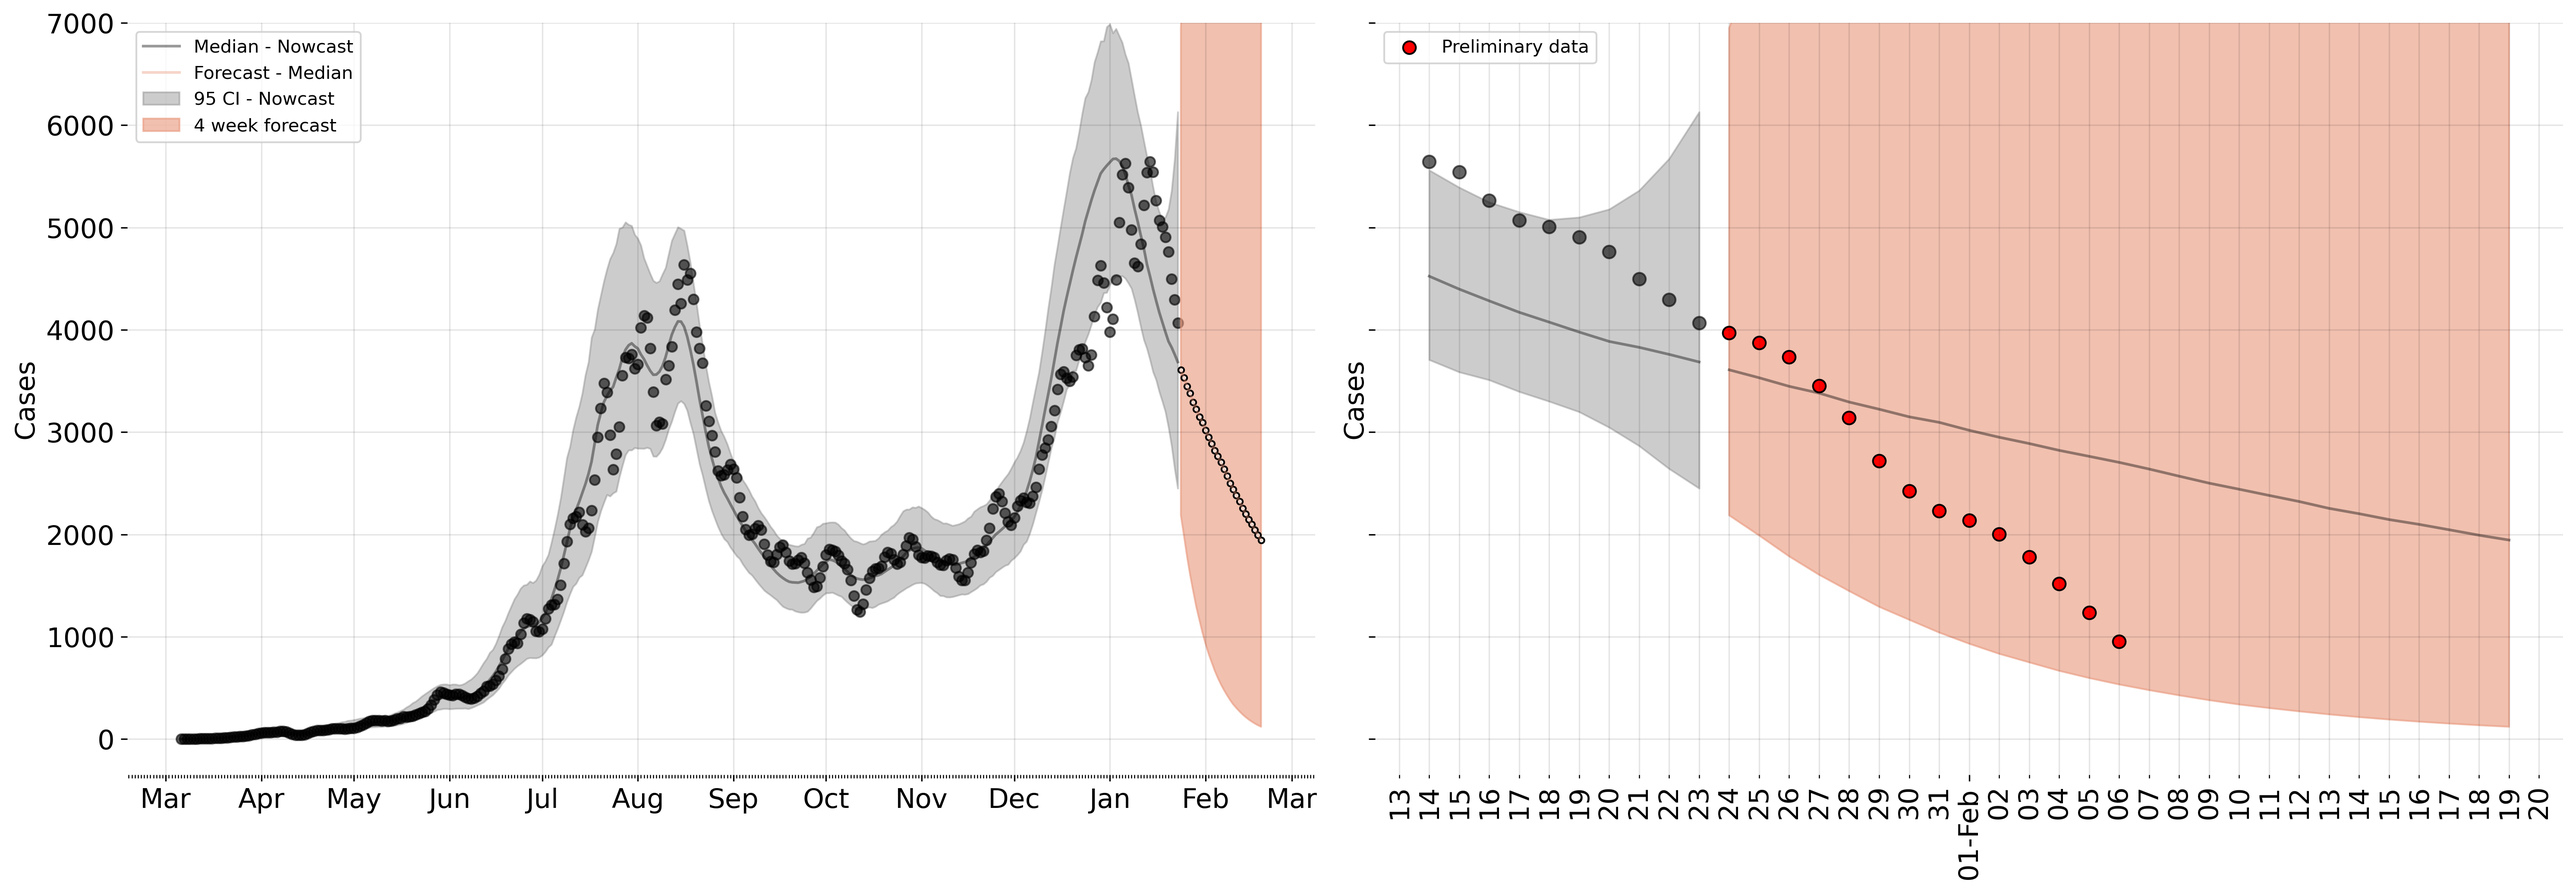
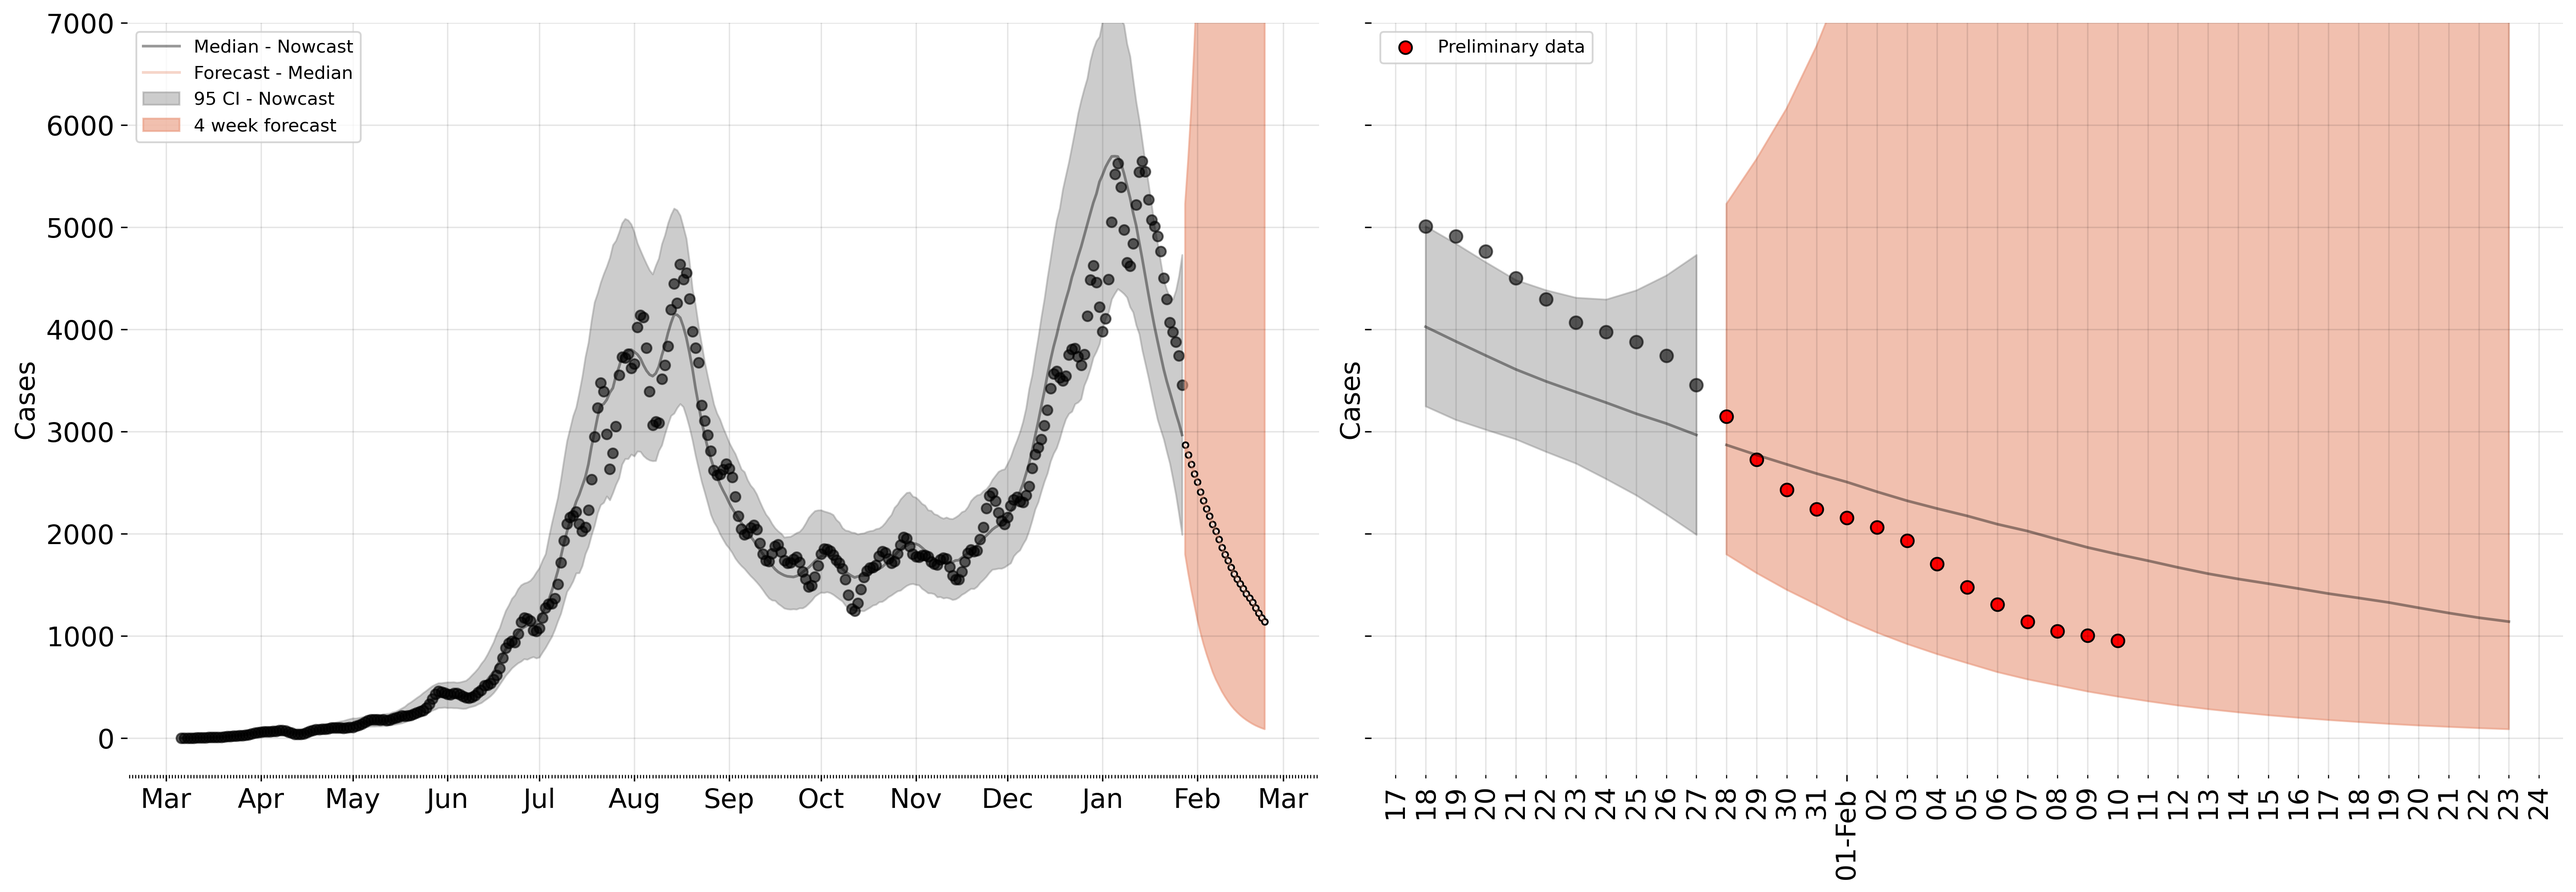
up

diff --git a/estimate_h.py b/estimate_h.py
@@ -25,16 +25,12 @@ data["num_diseased"].plot(ax=axes[0], color='red', linestyle='--')
 data["num_cases"].plot(ax=axes[1], color='k', linestyle='-')
 ax_tw = axes[1].twinx()
 data["num_infected_in_hospital"].plot(ax=ax_tw, color='blue', linestyle='--')
-
 plt.show()
 
 data = data.resample('D').sum().fillna(0)[['num_cases','num_diseased']]
 data  = prepare_cases(data, col='num_cases', cutoff=0)
 data  = prepare_cases(data, col='num_diseased', cutoff=0)
-
 data = data.rename(columns={'smoothed_num_cases': 'confirmed', 'smoothed_num_diseased':'death'})[['confirmed', 'death']]
-
-
 data = data.iloc[:-14]
 
 model = SEIRHD(
@@ -44,7 +40,6 @@ model = SEIRHD(
     T                = len(data),
     N                = 8181047,
     )
-
 
 T_future = 27
 path_to_save = os.path.join(results_dir, 'weekly_forecast' , 'bogota', pd.to_datetime(data.index.values[-1]).strftime('%Y-%m-%d'))

diff --git a/plot_forecast_figures.py b/plot_forecast_figures.py
@@ -4,8 +4,8 @@ from global_config import config
 from functions.adjust_cases_functions import prepare_cases
 from functions.plot_utils import plot_fit
 from global_config import config
-from seir_model import SEIRModel
-from seir_model import SEIRD
+from models.seird_model import SEIRModel
+from models.seird_model import SEIRD
 
 from datetime import date, timedelta
 import pandas as pd
@@ -19,7 +19,7 @@ if len(sys.argv) < 2:
     raise NotImplementedError()
 else:
     poly_run  = int(sys.argv[1])
-    name_dir  = int(sys.argv[2])
+    name_dir  = str(sys.argv[2])
 
 data_dir            = config.get_property('data_dir_covid')
 geo_dir             = config.get_property('geo_dir')

diff --git a/create_files.py b/create_files.py
@@ -15,7 +15,7 @@ if len(sys.argv) < 2:
     raise NotImplementedError()
 else:
     poly_run  = int(sys.argv[1])
-    name_dir  = int(sys.argv[2])
+    name_dir  = str(sys.argv[2])
 
 def load_samples(filename):
 
